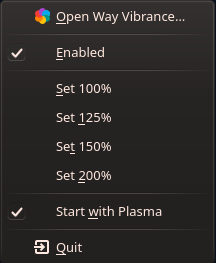
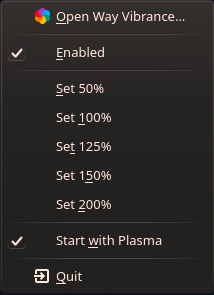
0.4.0: per-app profiles, in-context shaders, two-pane tray, 50% preset
- Profiles: app:/title: glob rules with per-profile vibrance + channel
  gains + cosmetic display names; dedicated editor window with Apply and
  50/100/125/150/200% presets; friendly names in the list; reliable live
  updates (all GL work — shader creation, uniform uploads, redirects —
  moved into drawWindow, where the context is guaranteed current).
- Tray: two-pane layout; live sync via a generic D-Bus message handler
  (typed string connects silently no-op with Qt 6.12 + dbus-broker).
- CLI: wayvibrance app {list|set|del|name|reset|focused}; English-only.
- build.sh installs missing deps without updating the system.
- Docs: new screenshots (app/profiles/tray), status updated.

diff --git a/tray/main.cpp b/tray/main.cpp
@@ -1410,7 +1410,7 @@ int main(int argc, char *argv[])
 
     KAboutData about(QStringLiteral("org.kde.wayvibrance-tray"),
                      QStringLiteral("Way Vibrance"),
-                     QStringLiteral("0.3.0"),
+                     QStringLiteral("0.4.0"),
                      QObject::tr("System-wide vibrance and per-channel RGB control for KDE Plasma on Wayland"),
                      KAboutLicense::GPL);
     about.setDesktopFileName(QStringLiteral("org.kde.wayvibrance-tray"));

diff --git a/README.pt.md b/README.pt.md
@@ -19,10 +19,16 @@ do driver.
 
 ## Capturas de tela
 
-Janela principal — slider de vibrance, ganhos RGB por canal, presets,
-atalho global e configurações de comportamento:
+Janela principal — vibrância global, ganhos RGB por canal, presets, atalho
+global e configurações de comportamento, com o painel de perfis por
+aplicação à direita:
 
-![Janela principal](docs/screenshots/app.jpg)
+![Janela principal](docs/screenshots/app.png)
+
+Editor de perfil por aplicação — padrão, nome de exibição cosmético,
+presets de vibrância e ganhos de canal próprios:
+
+![Perfil por aplicação](docs/screenshots/profiles.png)
 
 Menu da bandeja do sistema:
 
@@ -189,12 +195,15 @@ via D-Bus.
 
 ## Estado
 
-Funcional e em uso diário. Release atual: **v0.3.0** — vibrância, ganhos por
-canal RGB, hotkey configurável, configurações de comportamento (abrir na
-bandeja, autostart, modo monitor primário), todos os sliders no teto real de
-0–200%. Perfis por aplicação/jogo (o carro-chefe do vibrance-gui, um passo à
-frente: por janela em vez de por foco) já implementados no `main`, aguardando
-release.
+Funcional e em uso diário. Release atual: **v0.4.0** — perfis por
+aplicação/jogo (o carro-chefe do vibrance-gui, um passo à frente: por janela
+em vez de por foco): regras por glob `app:`/`title:` com ganhos de canal por
+perfil, nomes de exibição cosméticos, janela de edição própria com
+Apply/presets e atualização confiável via shaders em contexto; 50% entrou na
+fileira de presets; janela em dois painéis; CLI `wayvibrance app …`; o
+`build.sh` instala dependências sem nunca atualizar o sistema. Tudo do
+v0.3.0 (vibrância, ganhos RGB, hotkey, comportamento) segue valendo, com os
+sliders no teto real de 0–200%.
 
 ## Desenvolvimento
 

diff --git a/README.md b/README.md
@@ -18,10 +18,15 @@ to driver vibrance.
 
 ## Screenshots
 
-Main window — vibrance slider, per-channel RGB gains, presets, global
-hotkey and behaviour settings:
+Main window — global vibrance, per-channel RGB gains, presets, hotkey and
+behaviour settings, with the per-app profiles pane on the right:
 
-![Main window](docs/screenshots/app.jpg)
+![Main window](docs/screenshots/app.png)
+
+Per-app profile editor — pattern, cosmetic display name, vibrance presets
+and dedicated channel gains:
+
+![Per-app profile](docs/screenshots/profiles.png)
 
 System tray menu:
 
@@ -186,11 +191,15 @@ Way Vibrance*, or simply let the tray load it via D-Bus.
 
 ## Status
 
-Functional and in daily use. Current release: **v0.3.0** — vibrance, RGB
-channel gains, configurable hotkey, behaviour settings (tray-first start,
-autostart, primary-monitor mode), all capped at the real 0–200% range.
-Per-app/game profiles (vibrance-gui's flagship feature, one step further:
-per-window instead of per-focus) are implemented in `main`, pending release.
+Functional and in daily use. Current release: **v0.4.0** — per-app/game
+profiles (vibrance-gui's flagship feature, one step further: per-window
+instead of per-focus): `app:`/`title:` glob rules with per-profile channel
+gains, cosmetic display names, a dedicated editor window with Apply/presets
+and reliable live updates via in-context shader management; 50% joins the
+preset row; two-pane window; CLI `wayvibrance app …`; `build.sh` installs
+missing dependencies without ever updating the system. Everything from
+v0.3.0 (vibrance, RGB channel gains, hotkey, behaviour settings) is kept,
+all capped at the real 0–200% range.
 
 ## Development
 
